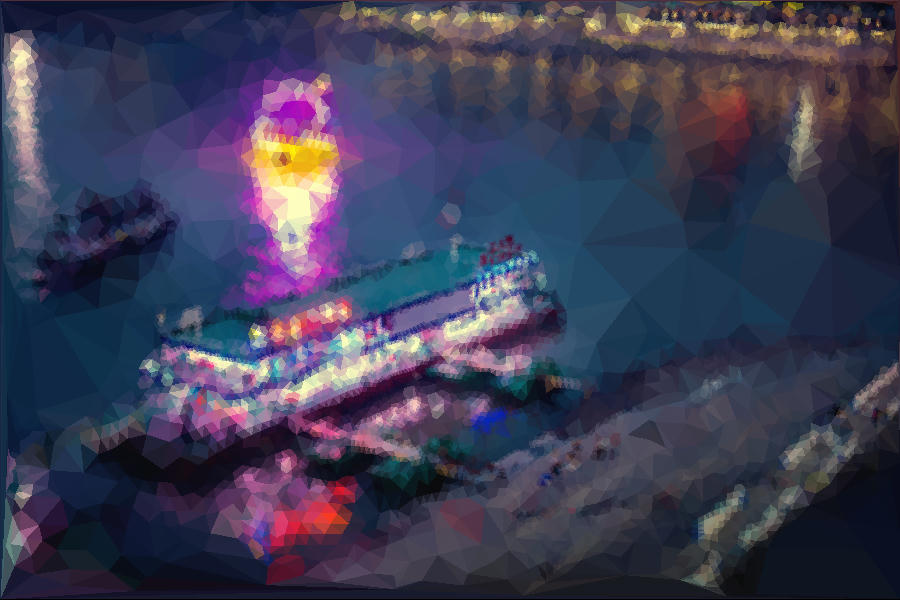
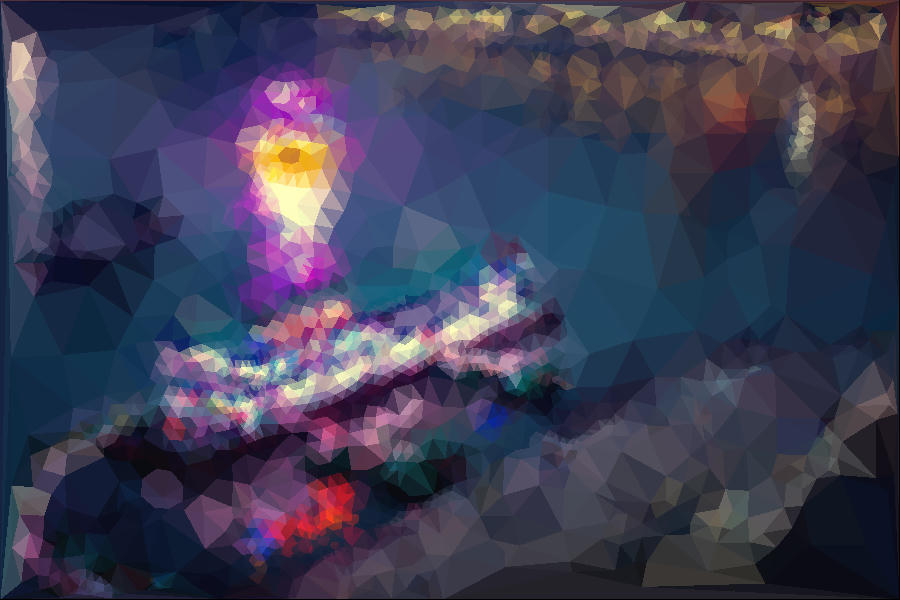
Improved test coverage

diff --git a/src/boundingbox.rs b/src/boundingbox.rs
@@ -40,3 +40,64 @@ impl BoundingBox {
         }
     }
 }
+
+#[cfg(test)]
+mod boundingbox_tests {
+    use image::Rgba;
+    use spade::delaunay::{DelaunayTriangulation, FloatDelaunayTriangulation, DelaunayWalkLocate};
+    use spade::kernels::FloatKernel;
+    use super::*;
+
+    type Mesh = DelaunayTriangulation<Point, FloatKernel, DelaunayWalkLocate>;
+
+    fn create_simple_triangulation() -> Mesh {
+        let mut delaunay = FloatDelaunayTriangulation::with_walk_locate();
+        delaunay.insert(Point {
+            x: 0.0,
+            y: 0.0,
+            c: Rgba([255, 0, 0, 255]),
+        });
+        delaunay.insert(Point {
+            x: 10.0,
+            y: 0.0,
+            c: Rgba([0, 255, 0, 255]),
+        });
+        delaunay.insert(Point {
+            x: 0.0,
+            y: 10.0,
+            c: Rgba([0, 0, 255, 255]),
+        });
+        delaunay
+    }
+
+    #[test]
+    fn test_creation() {
+        let (xmin, xmax, ymin, ymax) = (0.0, 1.0, 2.0, 3.0);
+        let bbox = BoundingBox {
+            xmin,
+            xmax,
+            ymin,
+            ymax
+        };
+
+        assert_eq!(bbox.xmin, xmin);
+        assert_eq!(bbox.xmax, xmax);
+        assert_eq!(bbox.ymin, ymin);
+        assert_eq!(bbox.ymax, ymax);
+    }
+
+    #[test]
+    fn test_creation_from_triangle() {
+        let mesh = create_simple_triangulation();
+
+        for face in mesh.triangles() {
+            let triangle = face.as_triangle();
+            let bbox = BoundingBox::from_triangle(&triangle);
+
+            assert_eq!(bbox.xmin, 0.0);
+            assert_eq!(bbox.xmax, 10.0);
+            assert_eq!(bbox.ymin, 0.0);
+            assert_eq!(bbox.ymax, 10.0);
+        }
+    }
+}

diff --git a/src/interpolation.rs b/src/interpolation.rs
@@ -150,4 +150,44 @@ mod interpolation_tests {
             assert_eq!(c, Rgba([255/3, 255/3, 255/3, 255]));
         }
     }
+
+
+    #[test]
+    fn test_interpolate_triangle_centroid() {
+        let mesh = create_simple_triangulation();
+        for face in mesh.triangles() {
+            let triangle = face.as_triangle();
+            let c = interpolate_triangle_centroid(&triangle);
+
+            assert_eq!(c.x, 10.0/3.0);
+            assert_eq!(c.y, 10.0/3.0);
+            assert_eq!(c.c, Rgba([255/3, 255/3, 255/3, 255]));
+        }
+    }
+
+    #[test]
+    fn test_interpolate_colour_in_triangle() {
+        let mesh = create_simple_triangulation();
+        let p1 = Point::new(0.0, 0.0, Rgba([255, 0, 0, 255]));
+        let p2 = Point::new(10.0, 0.0, Rgba([0, 255, 0, 255]));
+        let p3 = Point::new(0.0, 10.0, Rgba([0, 0, 255, 255]));
+        let p4 = Point::new(10.0/3.0, 10.0/3.0, Rgba([85, 84, 84, 255]));
+        let p5 = Point::new(0.2, 0.3,Rgba([242, 5, 7, 255]));
+
+        for face in mesh.triangles() {
+            let triangle = face.as_triangle();
+
+            let c1 = interpolate_rgba_in_triangle(&p1, &triangle);
+            let c2 = interpolate_rgba_in_triangle(&p2, &triangle);
+            let c3 = interpolate_rgba_in_triangle(&p3, &triangle);
+            let c4 = interpolate_rgba_in_triangle(&p4, &triangle);
+            let c5 = interpolate_rgba_in_triangle(&p5, &triangle);
+
+            assert_eq!(c1, p1.c);
+            assert_eq!(c2, p2.c);
+            assert_eq!(c3, p3.c);
+            assert_eq!(c4, p4.c);
+            assert_eq!(c5, p5.c);
+        }
+    }
 }

diff --git a/src/lib.rs b/src/lib.rs
@@ -28,6 +28,7 @@ use crate::rasterization::rasterize_mesh;
 type Mesh = DelaunayTriangulation<Point, FloatKernel, DelaunayWalkLocate>;
 
 // Starting point of command line program
+// TODO: Put this into a separate binary. After all, this should be a library
 pub fn run() {
     // Step 0: Parsing command line arguments
     // TODO: Parse command line arguments to assign these variables
@@ -36,8 +37,8 @@ pub fn run() {
     let path_out =
         PathBuf::from("./data/out/2017_China_Chongqing_Boats.jpg");
     let n_initial_points = 100;
-    let iterations = 5;
-    let max_diff = 10;
+    let iterations = 4;
+    let max_diff = 15;
 
     // Step 1: Importing the image from a given path
     let img = import_image_from_path(&path);

diff --git a/src/refinement.rs b/src/refinement.rs
@@ -23,7 +23,7 @@ pub fn refine_mesh_by_centroid(mesh: &mut Mesh, img: &DynamicImage, max_diff: i3
         let diff_g = ((centroid.c[1] as i32) - (orig_color[1] as i32)).abs();
         let diff_b = ((centroid.c[2] as i32) - (orig_color[2] as i32)).abs();
 
-        if diff_r > max_diff || diff_b > max_diff || diff_b > max_diff {
+        if diff_r > max_diff || diff_g > max_diff || diff_b > max_diff {
             centroid.c = orig_color;
             new_points.push(centroid);
         }

diff --git a/src/io.rs b/src/io.rs
@@ -24,3 +24,15 @@ pub fn import_image_from_path(path: &Path) -> DynamicImage {
         }
     }
 }
+
+#[cfg(test)]
+mod io_tests {
+    use std::path::PathBuf;
+    use super::*;
+
+    #[test]
+    fn test_import_working() {
+        let path = PathBuf::from("./data/2017_China_Chongqing_Boats.jpg");
+        let img = import_image_from_path(&path);
+    }
+}
